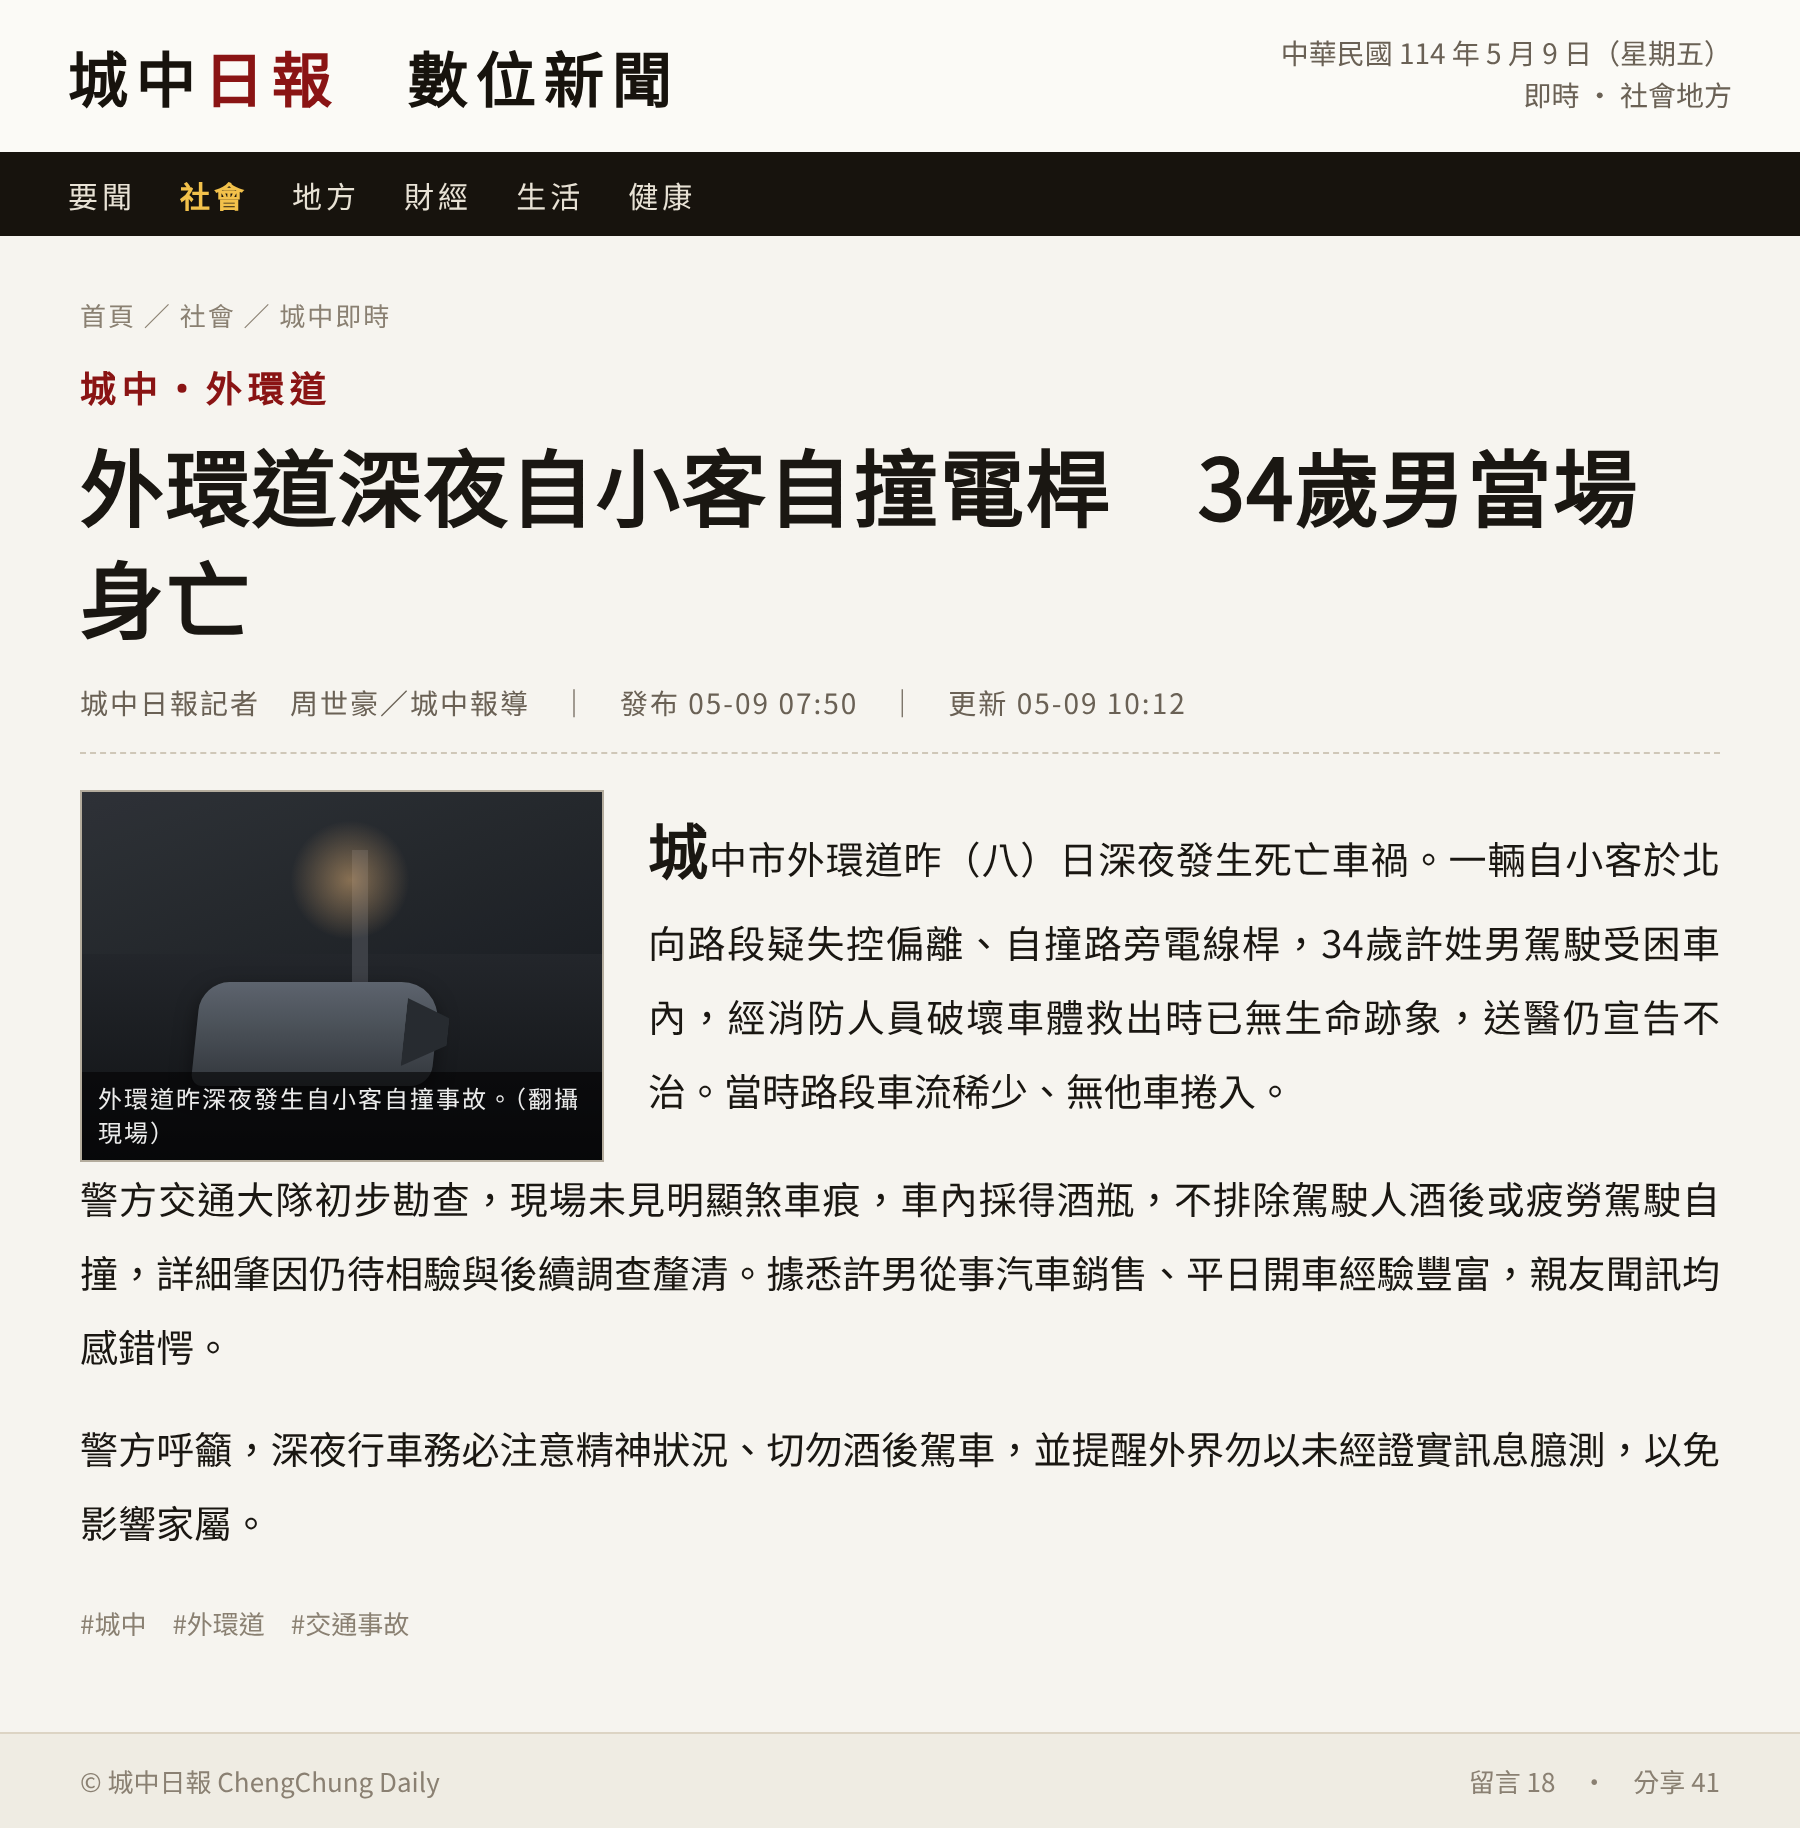
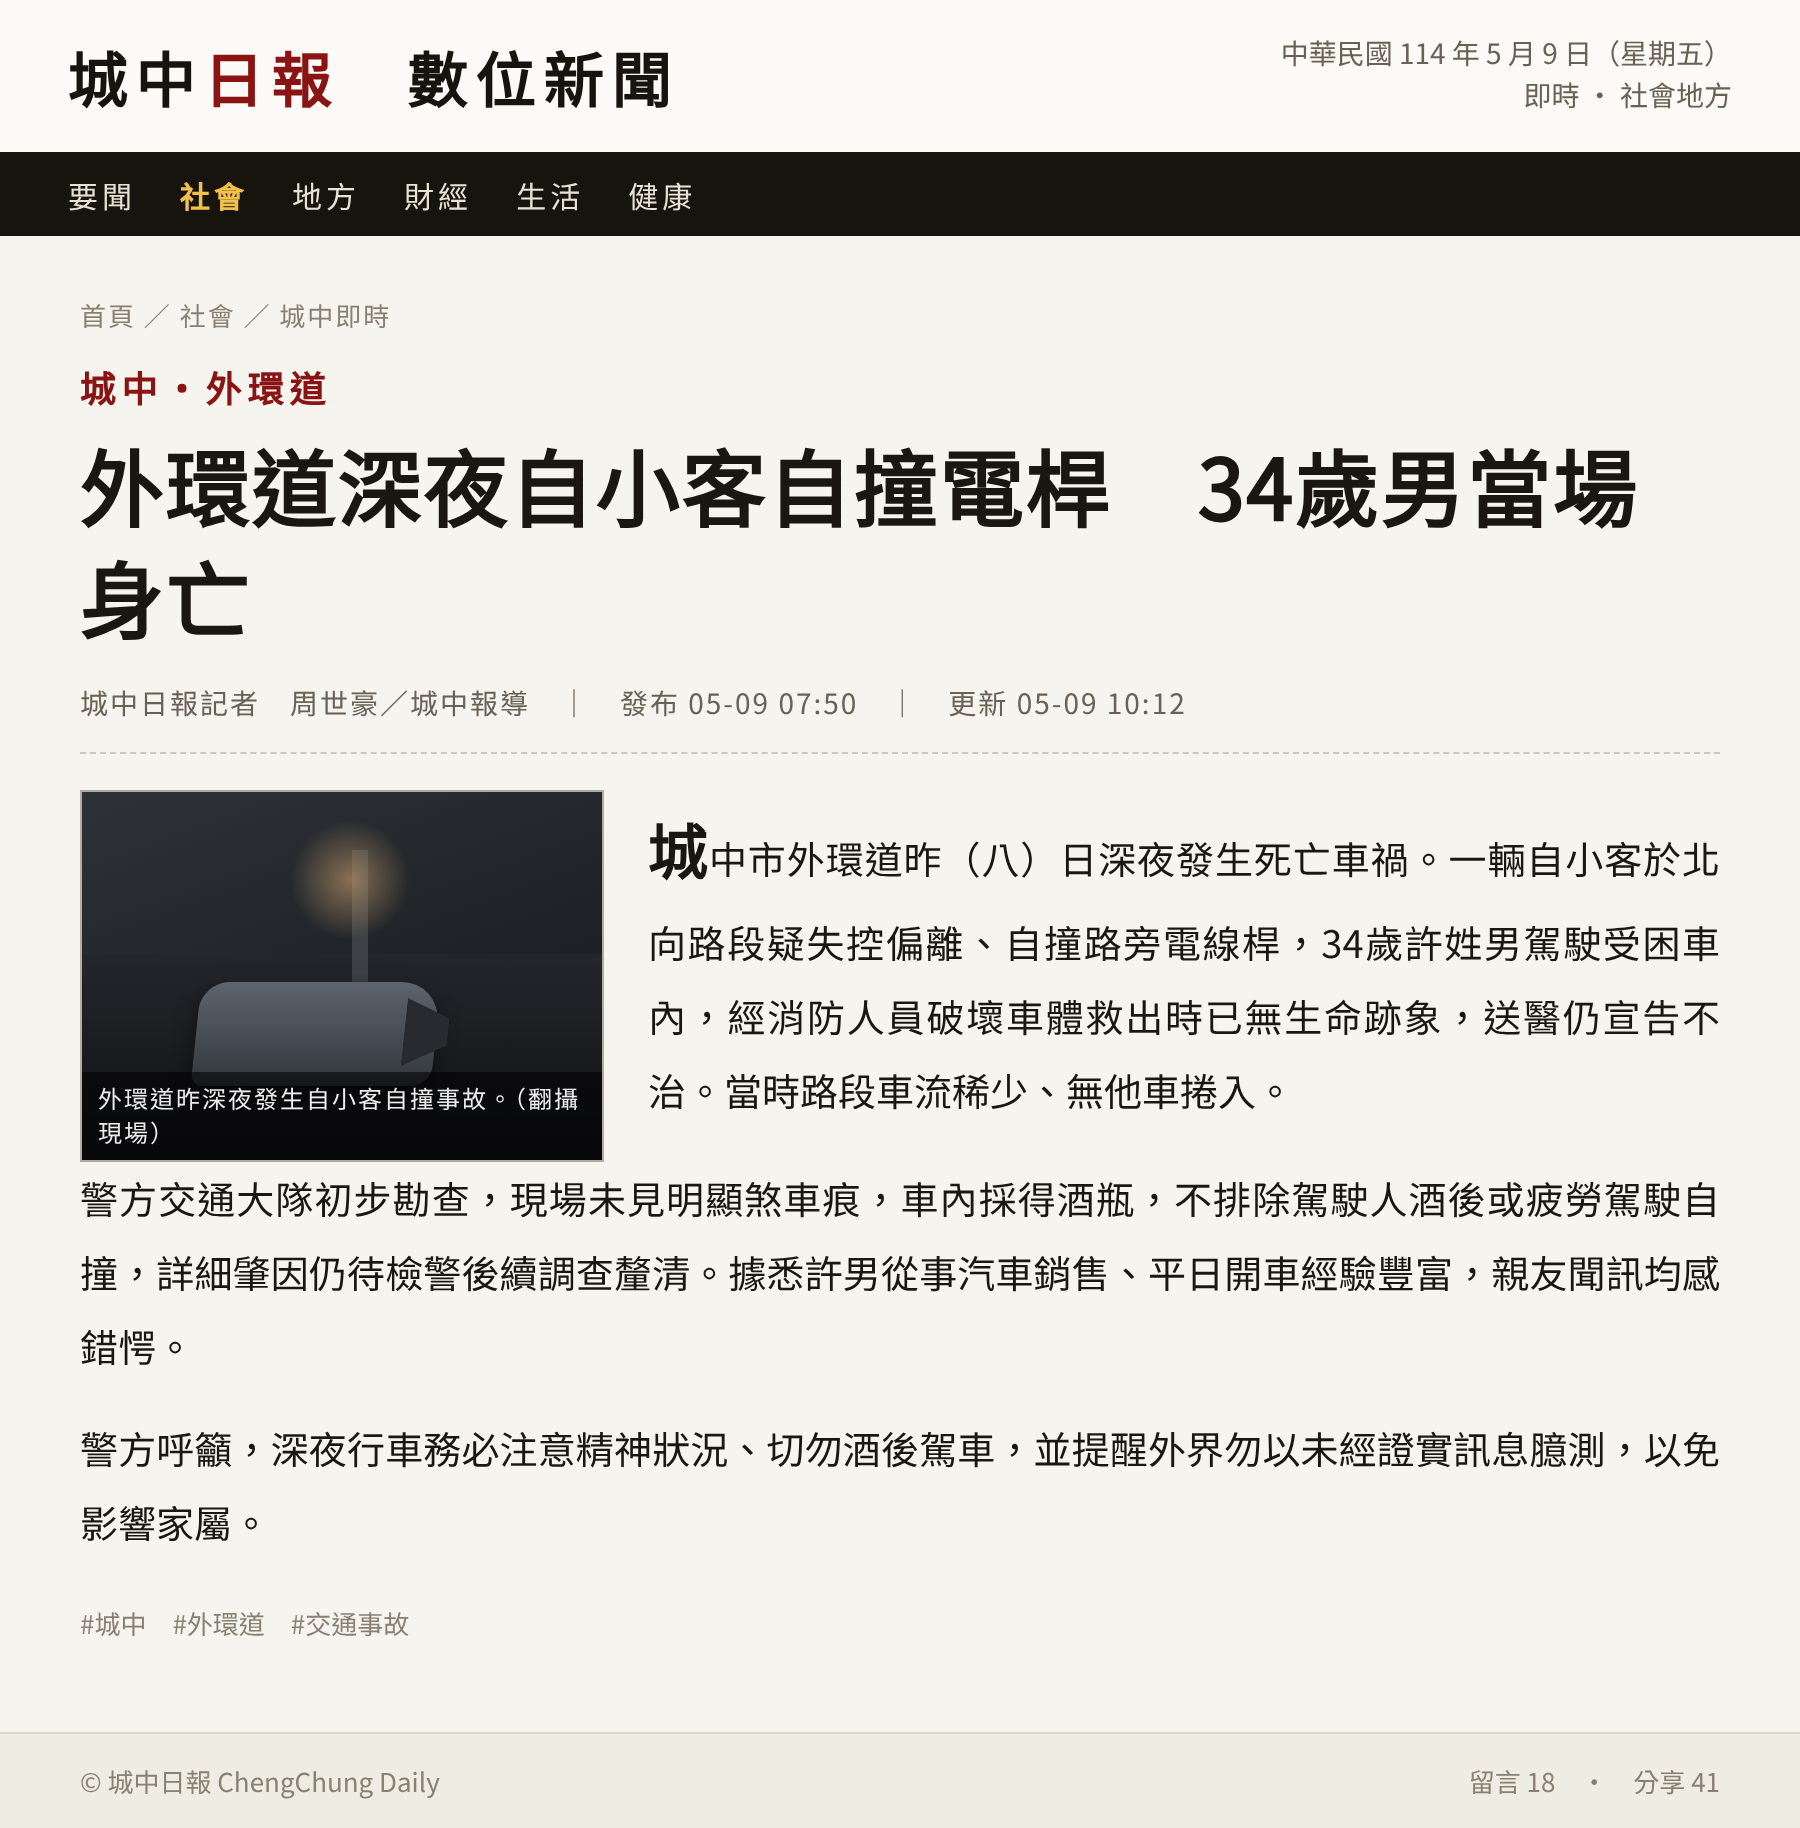
puzzle(CASE-11): 修Codex 3 findings(早洩相驗/死因、鄭時間對齊素材、備註更新)
High:c1-report/c1-news去除'死因/相驗'預先點名S4報告(留酒駕表面誤導);hint3+3nudge'相驗報告'改'最後那份正式報告'。
Med:reveal+md鄭時間22:50→對齊素材20:41/21:05社區+23:31外環道;23:35→23:38。
Low:md§6+json _note進度更新。JSON合法+core零洩漏+S1-S3無相驗/死因已複驗。

Changed region(s): [[0.2178, 0.686, 0.9644, 0.7172], [0.0311, 0.7172, 0.1244, 0.7484]]

diff --git a/tools/puzzle-quest/posters/c1-news.html b/tools/puzzle-quest/posters/c1-news.html
@@ -44,7 +44,7 @@
         <div class="photo"><div class="road"></div><div class="pole"></div><div class="car"></div><div class="glow"></div><div class="cap">外環道昨深夜發生自小客自撞事故。（翻攝現場）</div></div>
         <p class="drop">城中市外環道昨（八）日深夜發生死亡車禍。一輛自小客於北向路段疑失控偏離、自撞路旁電線桿，34歲許姓男駕駛受困車內，經消防人員破壞車體救出時已無生命跡象，送醫仍宣告不治。當時路段車流稀少、無他車捲入。</p>
       </div>
-      <p>警方交通大隊初步勘查，現場未見明顯煞車痕，車內採得酒瓶，不排除駕駛人酒後或疲勞駕駛自撞，詳細肇因仍待相驗與後續調查釐清。據悉許男從事汽車銷售、平日開車經驗豐富，親友聞訊均感錯愕。</p>
+      <p>警方交通大隊初步勘查，現場未見明顯煞車痕，車內採得酒瓶，不排除駕駛人酒後或疲勞駕駛自撞，詳細肇因仍待檢警後續調查釐清。據悉許男從事汽車銷售、平日開車經驗豐富，親友聞訊均感錯愕。</p>
       <p>警方呼籲，深夜行車務必注意精神狀況、切勿酒後駕車，並提醒外界勿以未經證實訊息臆測，以免影響家屬。</p>
       <div class="tag">#城中　#外環道　#交通事故</div>
     </div>

diff --git a/tools/puzzle-quest/posters/c1-report.html b/tools/puzzle-quest/posters/c1-report.html
@@ -42,7 +42,7 @@
           <div><span class="k">初步研判</span>疑駕駛人酒後或疲勞自撞（車內採得酒瓶）</div>
         </div>
         <div class="note">
-          ＊本通報為現場初步紀錄，非最終肇因認定。詳細死因、酒測及肇事原因，均待相驗與後續調查釐清，請勿逕自對外引述。
+          ＊本通報為現場初步紀錄，非最終肇因認定。詳細肇事原因及責任歸屬，仍待檢警後續調查釐清，請勿逕自對外引述。
         </div>
         <div class="cta"><span>處理單位　交通大隊 事故處理組</span><span>值勤：夜四班</span></div>
       </div>

diff --git a/tools/puzzle-quest/CASE-11-車禍疑雲.md b/tools/puzzle-quest/CASE-11-車禍疑雲.md
@@ -58,7 +58,7 @@
   - `c4-autopsy.png`🔬（**拱心石**）：相驗/解剖報告——**頸部索狀勒痕＋舌骨骨折＋結膜點狀出血（生前機械性窒息）**、**撞擊挫傷及骨折斷端無出血、缺生活反應（死後形成）**、**血中酒精 0.00**、屍溫/胃內容物**推定死亡時間早於報案車禍時間約 2 小時**。結論欄：**生前勒斃、死後偽裝自撞之他殺**。
   - `c4-blood.png`🔬：駕駛座**血跡型態鑑定**——座椅血跡為**被動滴落痕**、與高速撞擊噴濺型態不符；且**安全帶無荷重張力痕**、比對相驗屍體**無安全帶勒壓瘀傷（安全帶徵候／生活反應缺失）**＝繫著安全帶的是死後被擺入者。（現場採證照類，呼應 S1 `c1-seat` 那張「扣著」）
   - `c4-alcohol.png`：**酒精濃度檢驗報告**——血中酒精 **0.00 mg/L（陰性）**，與「疑似酒駕」矛盾。
-  - `c4-access.png`：ETC／加油站／社區門禁彙整——鄭凱文案發時段（約 22:50）實際在死者社區一帶，戳破「在健身房」。
+  - `c4-access.png`：ETC／基地台／社區 ANPR 彙整——鄭凱文案發時段（20:41／21:05）在死者社區一帶、23:31 車經外環道近事故地點，戳破「在健身房」。
   - `c4-timeline.png`：檢方彙整——死亡推定時間 vs 車禍報案時間 vs 保單投保/受益人 vs 監視/ETC 時間戳並排，一眼看出鏈條。
 
 ## §3 電話 AI 角色卡（阿榮 / unlockStage 3）
@@ -85,8 +85,9 @@
 > 全部繁體、24 小時制、同一命案夜的時間彼此不衝突。（示意，做圖照抄）
 - 命案夜 約 21:00–21:40：鄭凱文於許家車庫勒制致死（生前窒息）。
 - 死亡推定時間：命案夜 約 21:00–22:00（`c4-autopsy`/`c4-timeline`）。
-- 命案夜 約 22:50：鄭在死者社區一帶（`c4-access`：ETC/門禁），與宣稱「健身房」矛盾。
-- 命案夜 約 23:35：製造外環道自撞、報案「車禍」。→ **死亡早於車禍約 2 小時**（拱心石對照點）。
+- 命案夜 20:41 / 21:05：鄭凱文車輛（社區 ANPR）與手機（基地台）在死者社區一帶（`c4-access`），與宣稱「健身房」矛盾。
+- 命案夜 23:31：鄭凱文車輛經 ETC 通行外環道 12K 交流道（近事故地點，`c4-access`）。
+- 命案夜 23:38：製造外環道自撞、報案「車禍」。→ **死亡早於車禍約 2 小時**（拱心石對照點）。
 - 保單投保：死亡前約 3 週；受益人＝妻（`c3-policy`/`c3-benef`）。
 - 隔日 07:xx：發現、報驗、相驗（`c1-news`/`c1-report`）。
 - LINE 截圖時間：S1 群組＝案發翌日上午；S2＝翌日晚上；S3＝第三天；`c4-suspect-line`＝偵訊後。**每張截圖右上時間都要落在對的日子，且晚於命案夜。**
@@ -99,7 +100,7 @@ S4：`c4-suspect-line`(msg) / `c4-autopsy`🔬 / `c4-blood`🔬 / `c4-alcohol` /
 ＋ 假討論串頁 `waihuan.html`（比照 wenshan.html，隨 stage 增修留言）。
 > ⚠ 顯示文字**一律繁體、無 emoji**（emoji 變豆腐框）；文件/截圖類走 HTML 版型→shot.py，現場照片類走 Bedrock 底圖+程式疊字。
 > 🔬＝鑑識採證照類（版型 `posters/w1-scene.html`，Bedrock 純材質底 + HTML 疊採證標牌/比例尺/時間戳）。使用者特別偏好此類（CASE-10 的 w1-scene/w4-brazier 大受好評）；本案主打 `c1-scene`（車禍現場）、`c1-seat`（駕駛座/安全帶）、`c4-blood`（血跡型態）三張。標牌只描述現象（散落物範圍/無煞車痕/安全帶扣具/血滴痕），**不解釋含意、不出現 core 名詞**。
-> **進度（2026-07-15）**：✅ 設計聖經 + 引擎 JSON + **全 20 張素材 + `waihuan.html` 全部完成、上圖床、commit**（S1 六張含實拍安全帶真圖／S2 四張／S3 四張／S4 六張含拱心石相驗報告；c1-scene/c1-seat 為採證照）。素材源在 `posters/`，均逐張目視驗過（繁體無豆腐、時間軸一致、逐階段 core 自檢零洩漏）。假網站 4 個 stage 皆 200。**待辦：① cp 20 張 PNG 進甜甜 `data/puzzle-assets/` + sweetbot commit ② Codex 依 DESIGN_DIRECTION §5 整套複驗 ③ DDB put `waihuan-crash-coverup`（JSON 已含 `_type:"puzzle"`＋裸檔名，直接 put）④ 開案（設 activePuzzleId）。**
+> **進度（2026-07-15）**：✅ 設計聖經 + 引擎 JSON + **全 20 張素材 + `waihuan.html` 全部完成、上圖床、commit**（S1 六張含實拍安全帶真圖／S2 四張／S3 四張／S4 六張含拱心石相驗報告；c1-scene/c1-seat 為採證照）。素材源在 `posters/`，均逐張目視驗過（繁體無豆腐、時間軸一致、逐階段 core 自檢零洩漏）。假網站 4 個 stage 皆 200。**進度續**：✅ cp 20 張進甜甜 `data/puzzle-assets/`（sweetbot `62b7625`）✅ Codex 依 §5 複驗過，3 findings 全修（早洩「相驗/死因」清除、鄭時間對齊素材 20:41/21:05+23:31、備註更新）。**剩：① DDB put `waihuan-crash-coverup`（JSON 已含 `_type:"puzzle"`＋裸檔名，直接 put）② 開案（設 activePuzzleId）。**
 
 ## §7 引擎相容 / 合規 / LESSONS 對照
 - 引擎：stages/npc/solution/hints/reveal 欄位與 CASE-09/10 同構，四階段推進 + 電話AI（含新版保底引導）直接沿用，**不需改引擎**。
